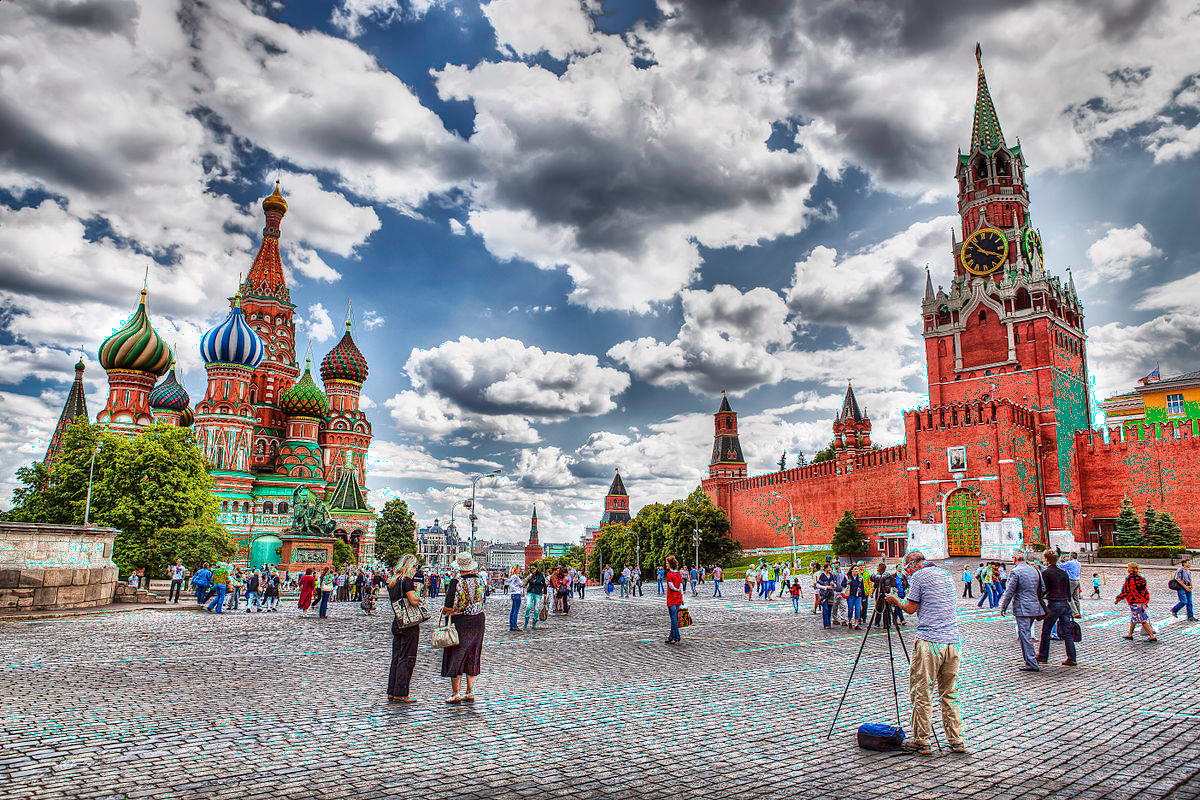
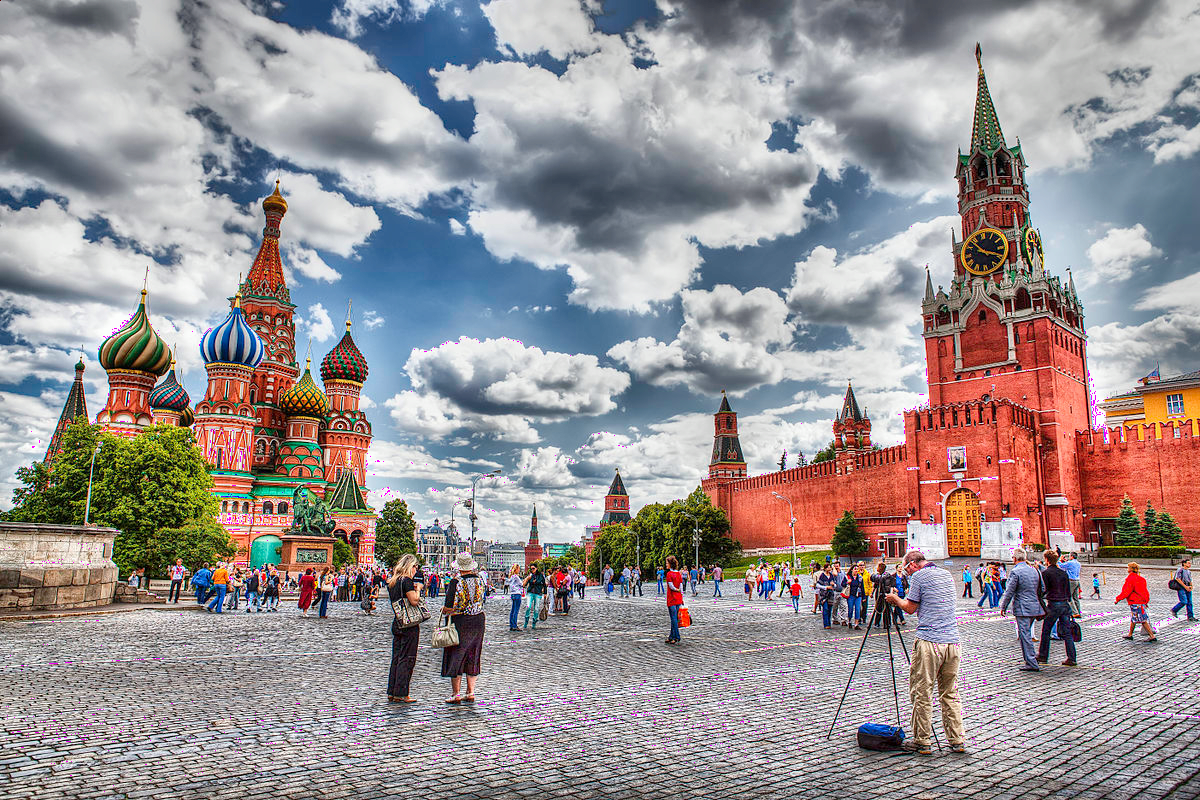
randomisation fini

diff --git a/Encoding.py b/Encoding.py
@@ -1,4 +1,5 @@
 from Pixels import Pixels
+from random import randint
 
 
 class Encoding:
@@ -12,8 +13,8 @@ class Encoding:
         #cree un objet de la class pixles de l'image 
         self.pixels = Pixels(image_name)
         #decide si on encode sur une base pair ou impair (une valuer par couleur)
-        #self.encode_layer = ([randint(0,2)]for i in range(3))
-        self.encode_layer = [1,0,0]
+        self.encode_layer = [randint(0,1)for i in range(3)]
+        #self.encode_layer = [1,0,0]
         #met tout nos pixel a la valuer pair ou impair voulu
         for i in range(3):
             if self.encode_layer[i]==1:
@@ -25,10 +26,10 @@ class Encoding:
         #liste de toute les cellules d'encodage possible
         self.functions =["test_func","func_1"]  
         #decide quel module d'encryptage vont etre utiliser (1 veut dire que le module est utilise)
-        #self.code_encodage = ([[randint(0,2)] for j in range(3)] for i in range(len(self.functions)))
+        self.code_encodage = [[randint(0,1) for j in range(3)] for i in range(len(self.functions))]
         #self.code_encodage = [[1,0,0],[1,0,0]]
         
-
+        
          #ecrit les parametere d'enodage
         signature = []
         for i in range(3):

diff --git a/test.py b/test.py
@@ -1,4 +1,5 @@
 from Pixels import Pixels
+from random import randint
 # class test:
 #     def __init__(self,number):
 #         self.number = number
@@ -31,5 +32,5 @@ tst = tst[:-8]
 print(tst)
 
 print(str(int(255%2)))
-
+print([randint(0,1)for i in range(3)])
 
